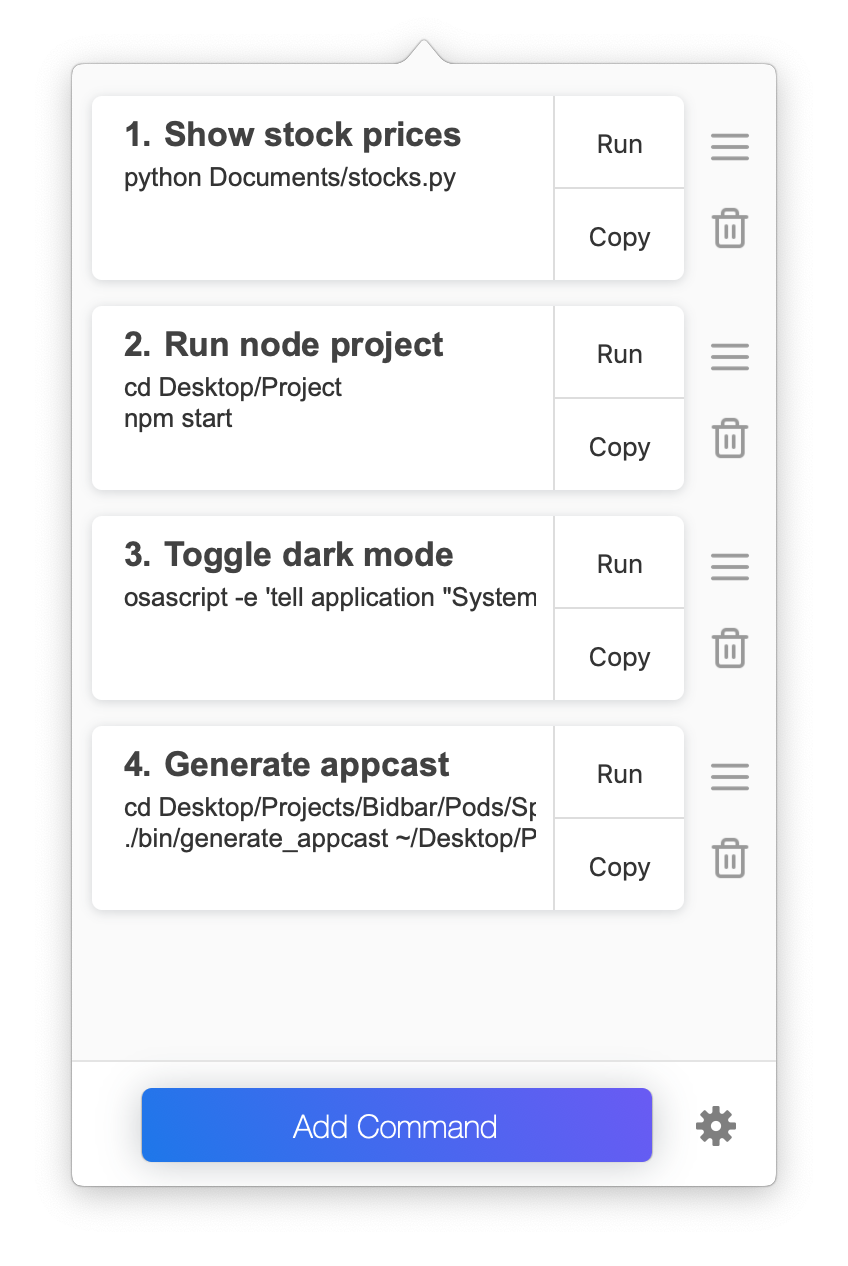
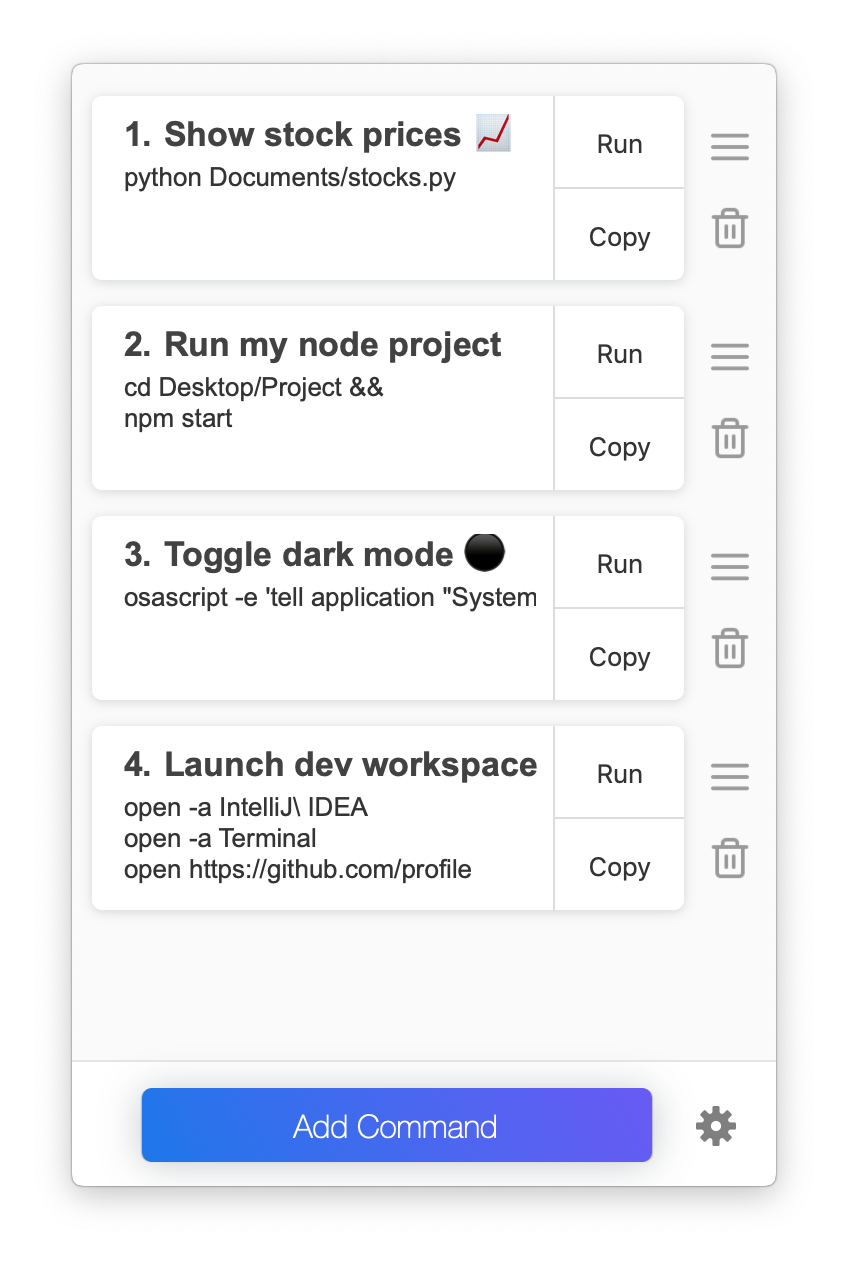
New screenshots and last minute updates

diff --git a/examples.html b/examples.html
@@ -112,8 +112,8 @@
         <div class="column col-lg-6 col-md-12 col-sm-12 col-xs-12">
           <div class="example-item">
             <p class="example-text example-text-header">Do git operations &#129425</p>
-            <p class="example-text example-text-body">cd path/to/project
-              <br>git pull
+            <p class="example-text example-text-body">cd path/to/project &&
+              <br>git pull &&
               <br>git commit -am "Commit my awesome changes"
             </p>
           </div>
@@ -132,8 +132,8 @@
 
           <div class="example-item">
             <p class="example-text example-text-header">Run and test your projects</p>
-            <p class="example-text example-text-body">cd path/to/project
-              <br>npm start
+            <p class="example-text example-text-body">cd path/to/project &&
+              <br>npm start &&
               <br>npm test
             </p>
           </div>

diff --git a/index.html b/index.html
@@ -53,7 +53,7 @@
           <p class="free-trial-text">7-day free trial</p>
         </div>
         <div class="col image-col" id="top-image">
-          <img src="./assets/bidbar_image_no_arrow.png" alt="Image of Bidbar" width="420px">
+          <img src="./assets/bidbar_image.png" alt="Image of Bidbar" width="420px">
         </div>
       </div>
       
@@ -95,8 +95,8 @@
         <div class="column col-lg-6 col-md-12 col-sm-12 col-xs-12">
           <div class="example-item">
             <p class="example-text example-text-header">Do git operations &#129425</p>
-            <p class="example-text example-text-body">cd path/to/project
-              <br>git pull
+            <p class="example-text example-text-body">cd path/to/project && 
+              <br>git pull &&
               <br>git commit -am "Commit my awesome changes"
             </p>
           </div>
